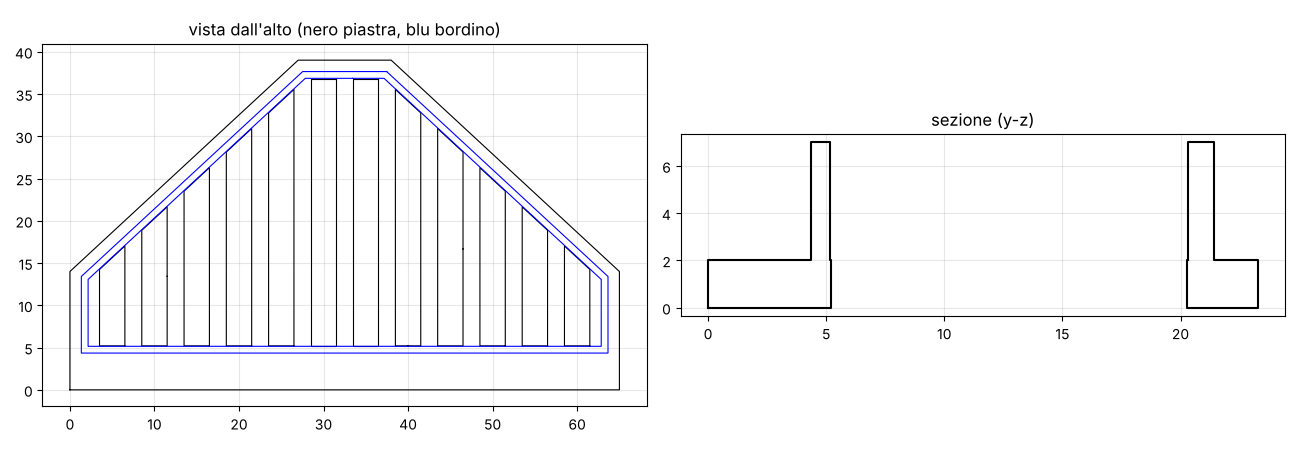
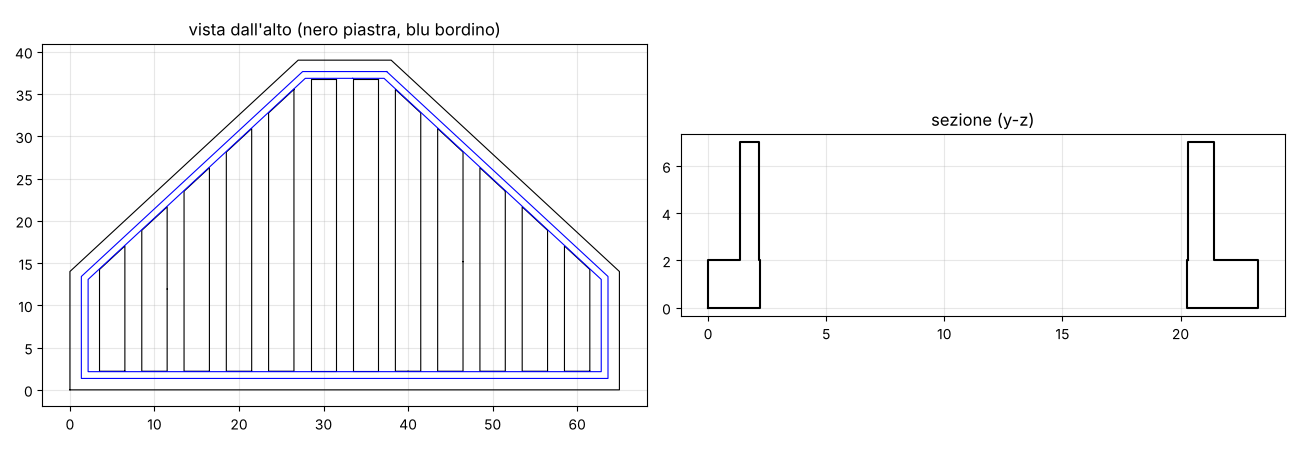
Coperchio sperimentale: bordino a filo del nuovo profilo esterno
Claude-Session: https://claude.ai/code/session_01LmTVwSvHTjzneRCoiiBk7u

diff --git a/stampa3d/contenitore_siporax/coperchio_esperimento.py b/stampa3d/contenitore_siporax/coperchio_esperimento.py
@@ -1,7 +1,7 @@
 """Coperchio sperimentale: piastra 2 mm, bordino 5 mm, testate allungate di 3 mm verso il lato lungo.
 
-Il bordino resta dimensionato per la scatola di genera_stl.py (contropezzo);
-la piastra sporge di 3 mm oltre il lato lungo, piena, senza feritoie.
+Il bordino segue il nuovo profilo esterno, rientrato come nel coperchio standard
+(parete + gioco), per un contropezzo anch'esso allungato di 3 mm.
 Uso:  pip install trimesh manifold3d shapely networkx lxml  &&  python coperchio_esperimento.py
 """
 import trimesh
@@ -10,10 +10,10 @@ from shapely.ops import unary_union
 
 LATO_LUNGO = 65.0
 LATO_CORTO = 11.0
-PROFONDITA = 36.0       # della scatola (contropezzo)
+PROFONDITA = 36.0       # profondità di partenza, prima dell'allungo
 ALLUNGO = 3.0           # testate allungate dalla parte del lato lungo: 11 -> 14
 PIASTRA = 2.0
-PARETE = 1.2            # parete della scatola su cui deve entrare il bordino
+PARETE = 1.2            # parete del contropezzo su cui deve entrare il bordino
 FESSURA = 3.0
 BARRETTA = 2.0
 BORDO_PIENO = 2.2
@@ -22,8 +22,6 @@ GONNA_SP = 0.8
 GIOCO = 0.15
 
 dx = (LATO_LUNGO - LATO_CORTO) / 2
-scatola = Polygon([(0, 0), (LATO_LUNGO, 0), (LATO_LUNGO, LATO_CORTO),
-                   (LATO_LUNGO - dx, PROFONDITA), (dx, PROFONDITA), (0, LATO_CORTO)])
 piastra = Polygon([(0, -ALLUNGO), (LATO_LUNGO, -ALLUNGO), (LATO_LUNGO, LATO_CORTO),
                    (LATO_LUNGO - dx, PROFONDITA), (dx, PROFONDITA), (0, LATO_CORTO)])
 
@@ -51,8 +49,8 @@ def estrudi(poly, h, z=0.0):
     return m
 
 
-lastra = estrudi(piastra.difference(griglia(inset(scatola, BORDO_PIENO))), PIASTRA)
-interno = inset(scatola, PARETE + GIOCO)
+lastra = estrudi(piastra.difference(griglia(inset(piastra, BORDO_PIENO))), PIASTRA)
+interno = inset(piastra, PARETE + GIOCO)
 gonna = estrudi(interno.difference(inset(interno, GONNA_SP)), GONNA_H, PIASTRA)
 coperchio = trimesh.boolean.union([lastra, gonna], engine="manifold")
 coperchio.apply_translation([0, ALLUNGO, 0])
